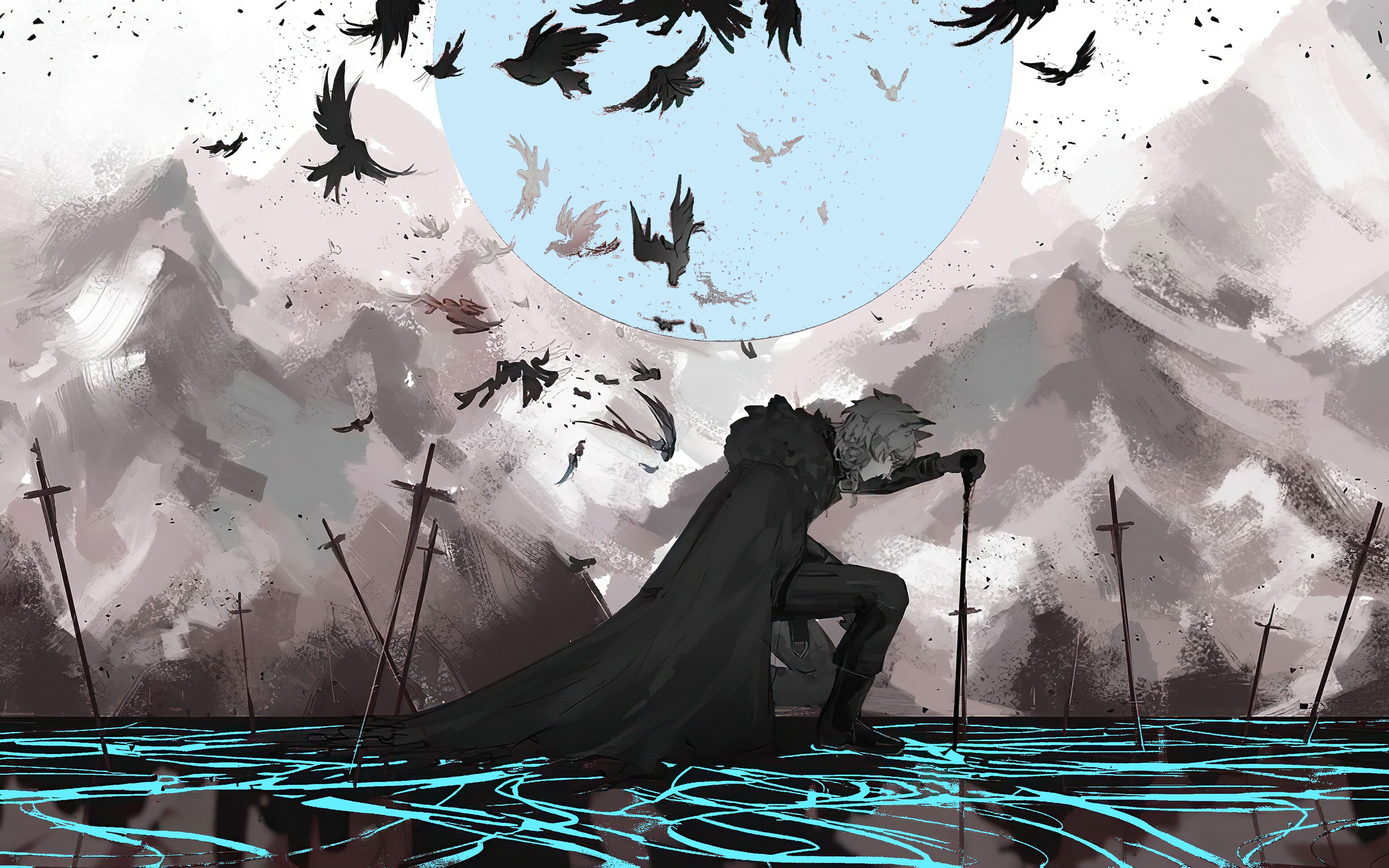
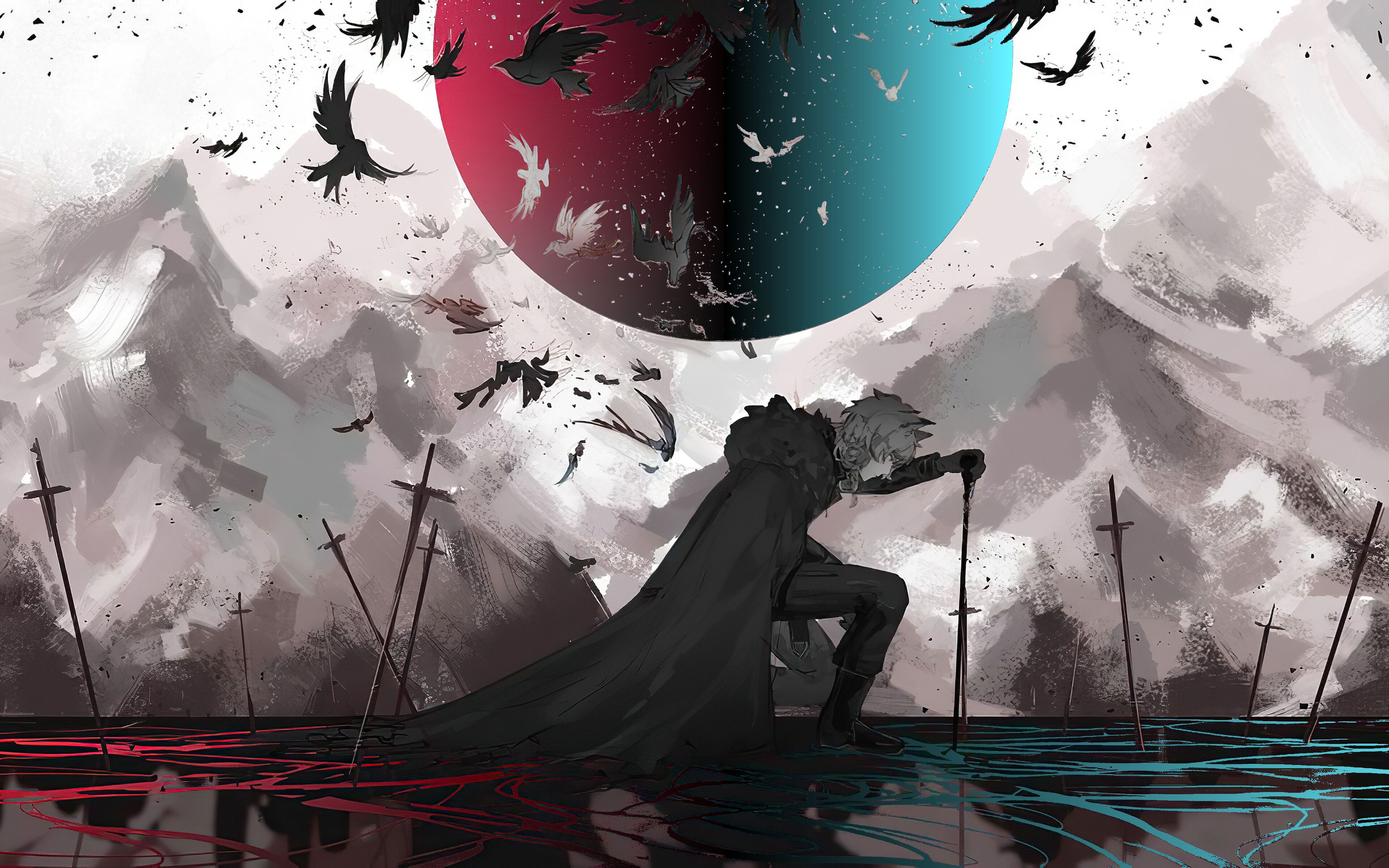
done with filter1

Changed region(s): [[0.3125, 0.0, 0.75, 0.4062], [0.0, 0.8125, 1.0, 1.0], [0.0, 0.9688, 0.0312, 1.0]]

diff --git a/filter1.cc b/filter1.cc
@@ -8,16 +8,6 @@ using namespace std;
 
 const int RED = 0, GREEN = 1, BLUE = 2;
 
-void make_rect(vector<vector<vector<int>>> &vec, int x_min, int x_max, int y_min, int y_max) {
-	for (int i = y_min; i <= y_max; i++) {
-		for (int j = x_min; j <= x_max; j++) {
-			vec[i][j][RED] = 0;
-			vec[i][j][GREEN] = 0;
-			vec[i][j][BLUE] = 0;
-		}
-	}
-}
-
 //YOU: Write your own filter here - delete the demo code or modify it to suit your purposes
 void filter1(vector<vector<vector<int>>> &vec) {
 	//Get the number of rows, columns, and colors in this 3D vector
@@ -28,14 +18,17 @@ void filter1(vector<vector<vector<int>>> &vec) {
 	size_t colors = vec.at(0).at(0).size();
 	if (!colors) exit(1);
 
-	//TODO: Use for watermark.
-//	make_rect(vec, 50, 200, 50, 60); 
-//	make_rect(vec, 50, 200, 100, 110); 
-
-	//Initialize redVal, greenVal, and blueVal to hold RGB values respectively.
+	//Initialize redVal, greenVal, and blueVal to hold RGB values respectively. The gradient percents affects what color the sun and lines on the bottom are.
 	int redVal = 0;
 	int greenVal = 0;
 	int blueVal = 0;
+	double sunRedGradientPercent = 1, sunCyanGradientPercent = 0;
+	double redGradientPercent = 1, cyanGradientPercent = 0;
+
+	//NOTE COLORS USED:
+	//		Soft blue: 200, 235, 250
+	//		Cyan used: 100, 238, 255
+	//		Red: Default red. Amplified at times to make it more showy.
 
 	//Cycle through the image one row and all columns at a time.
 	for (int i = 0; i < rows; i++) {
@@ -45,7 +38,95 @@ void filter1(vector<vector<vector<int>>> &vec) {
 			greenVal = vec.at(i).at(j).at(GREEN);
 			blueVal = vec.at(i).at(j).at(BLUE);
 
-			//Turns the sun icy blue.
+			//Makes sun split down the middle into red and cyan, gradiented. Uses 4 boxes to accomplish this.
+			//Top box.
+			if (j < 790) {
+				//Left side.
+				if (i > 1198 and i <= 2000) {
+					//If the color is close to red, gradient it.
+					if (redVal > 120 and greenVal < 115 and blueVal < 115) {
+						//Amplify red color first...
+						vec.at(i).at(j).at(RED) *= 1.45;
+						vec.at(i).at(j).at(GREEN) *= 1.45;
+						vec.at(i).at(j).at(BLUE) *= 1.45;
+						//...and then gradient it.
+						vec.at(i).at(j).at(RED) *= sunRedGradientPercent;
+						vec.at(i).at(j).at(GREEN) *= sunRedGradientPercent;
+						vec.at(i).at(j).at(BLUE) *= sunRedGradientPercent;
+					}
+					//Else if the difference between the RGB values is greater or equal to 10, also gradient it. In English, this means if the color is more red than not.
+					else if ((redVal - blueVal >= 10) and (redVal - greenVal >= 10) and (blueVal - greenVal >= 10)) {
+						//Amplify red color first...
+						vec.at(i).at(j).at(RED) *= 1.45;
+						vec.at(i).at(j).at(GREEN) *= 1.45;
+						vec.at(i).at(j).at(BLUE) *= 1.45;
+						//...and then gradient it.
+						vec.at(i).at(j).at(RED) *= sunRedGradientPercent;
+						vec.at(i).at(j).at(GREEN) *= sunRedGradientPercent;
+						vec.at(i).at(j).at(BLUE) *= sunRedGradientPercent;
+					}
+				}
+				//Right side.
+				else if (i > 2000 and i < 2800) {
+					//If the color is close to red, make the pixel icy blue and gradient it.
+					if (redVal > 120 and greenVal < 115 and blueVal < 115) {
+						vec.at(i).at(j).at(RED) = 100 * sunCyanGradientPercent;
+						vec.at(i).at(j).at(GREEN) = 238 * sunCyanGradientPercent;
+						vec.at(i).at(j).at(BLUE) = 255 * sunCyanGradientPercent;
+					}
+					//Else if the difference between the RGB values is greater or equal to 10, also make the pixel icy blue and gradient it. In English, this means if the color is more red than not.
+					else if ((redVal - blueVal >= 10) and (redVal - greenVal >= 10) and (blueVal - greenVal >= 10)) {
+						vec.at(i).at(j).at(RED) = 100 * sunCyanGradientPercent;
+						vec.at(i).at(j).at(GREEN) = 238 * sunCyanGradientPercent;
+						vec.at(i).at(j).at(BLUE) = 255 * sunCyanGradientPercent;
+					}	
+				}
+			}
+			//Bounds check #2. From row 790 to the bottom of sun.
+			//Bottom box.
+			else if (j < 945) {
+				//Left side.
+				if (i > 1515 and i <= 2000) {
+					//If the color is close to red, gradient it.
+					if (redVal > 120 and greenVal < 115 and blueVal < 115) {
+						//Amplify red color first...
+						vec.at(i).at(j).at(RED) *= 1.45;
+						vec.at(i).at(j).at(GREEN) *= 1.45;
+						vec.at(i).at(j).at(BLUE) *= 1.45;
+						//...and then gradient it.
+						vec.at(i).at(j).at(RED) *= sunRedGradientPercent;
+						vec.at(i).at(j).at(GREEN) *= sunRedGradientPercent;
+						vec.at(i).at(j).at(BLUE) *= sunRedGradientPercent;
+					}
+					//Else if the difference between the RGB values is greater or equal to 10, also gradient it. In English, this means if the color is more red than not.
+					else if ((redVal - blueVal >= 10) and (redVal - greenVal >= 10) and (blueVal - greenVal >= 10)) {
+						//Amplify red color first...
+						vec.at(i).at(j).at(RED) *= 1.45;
+						vec.at(i).at(j).at(GREEN) *= 1.45;
+						vec.at(i).at(j).at(BLUE) *= 1.45;
+						//...and thne gradient it.
+						vec.at(i).at(j).at(RED) *= sunRedGradientPercent;
+						vec.at(i).at(j).at(GREEN) *= sunRedGradientPercent;
+						vec.at(i).at(j).at(BLUE) *= sunRedGradientPercent;
+					}
+				}
+				//Right side.
+				else if (i > 2000 and i < 2800) {
+					//If the color is close to red, make the pixel icy blue and gradient it.
+					if (redVal > 120 and greenVal < 115 and blueVal < 115) {
+						vec.at(i).at(j).at(RED) = 100 * sunCyanGradientPercent;
+						vec.at(i).at(j).at(GREEN) = 238 * sunCyanGradientPercent;
+						vec.at(i).at(j).at(BLUE) = 255 * sunCyanGradientPercent;
+					}
+					//Else if the difference between the RGB values is greater or equal to 10, also make the pixel icy blue and gradient it. In English, this means if the color is more red than not.
+					else if ((redVal - blueVal >= 10) and (redVal - greenVal >= 10) and (blueVal - greenVal >= 10)) {
+						vec.at(i).at(j).at(RED) = 100 * sunCyanGradientPercent;
+						vec.at(i).at(j).at(GREEN) = 238 * sunCyanGradientPercent;
+						vec.at(i).at(j).at(BLUE) = 255 * sunCyanGradientPercent;
+					}
+				}
+			}
+/*			//Turns the sun icy blue.
 			//NOTE: Two bounds checks are requied as one of the birds that would otherwise be in-bounds of a fully encompassing square, is just barely within the color range to be turned partially icy blue.
 			//Bounds check #1. From the top of sun to row 790.
 			if ((i > 1193 and i < 2800) and (j < 790)) {
@@ -55,7 +136,7 @@ void filter1(vector<vector<vector<int>>> &vec) {
 					vec.at(i).at(j).at(GREEN) = 233;
 					vec.at(i).at(j).at(BLUE) = 250;
 				}
-				//Else if the difference between the RGB values is greater or equal to 10, make the pixel icy blue. In English, this means if the color is more red than not.
+				//Else if the difference between the RGB values is greater or equal to 10, also make the pixel icy blue. In English, this means if the color is more red than not.
 				else if ((redVal - blueVal >= 10) and (redVal - greenVal >= 10) and (blueVal - greenVal >= 10)) {
 					vec.at(i).at(j).at(RED) = 200;
 					vec.at(i).at(j).at(GREEN) = 233;
@@ -70,64 +151,54 @@ void filter1(vector<vector<vector<int>>> &vec) {
 					vec.at(i).at(j).at(GREEN) = 233;
 					vec.at(i).at(j).at(BLUE) = 250;
 				}
-				//Else if the difference between the RGB values is greater or equal to 10, make the pixel icy blue. In English, this means if the color is more red than not.
+				//Else if the difference between the RGB values is greater or equal to 10, also make the pixel icy blue. In English, this means if the color is more red than not.
 				else if ((redVal - blueVal >= 10) and (redVal - greenVal >= 10) and (blueVal - greenVal >= 10)) {
 					vec.at(i).at(j).at(RED) = 200;
 					vec.at(i).at(j).at(GREEN) = 233;
 					vec.at(i).at(j).at(BLUE) = 250;
 				}
-			}
+			} */
 			//Bounds check for bottom part of screen where the red lines on the ground are.
-			else if (j > 1980) {
-				//If redVal minus greenVal and blueVal combined is higher than FIXME, then it's considered red and is changed to icy blue.
-				if ((redVal - blueVal >= 30) and (redVal - greenVal >= 30)) {
-					vec.at(i).at(j).at(RED) = 100;
-					vec.at(i).at(j).at(GREEN) = 238;
-					vec.at(i).at(j).at(BLUE) = 255;
+			else { 
+				//Gradients red from left to right, starting at beginning of screen and stopping at middle of screen.
+				if ((i <= 2000) and (redVal - blueVal >= 30) and (redVal - greenVal >= 30)) {
+					//Increases the red color so looks similar to the hue of cyan's.
+					vec.at(i).at(j).at(RED) *= 1.48;
+					vec.at(i).at(j).at(GREEN) *= 1.48;
+					vec.at(i).at(j).at(BLUE) *= 1.48;
+
+					//Reduce red color by the gradient percentage.
+					vec.at(i).at(j).at(RED) *= redGradientPercent;
+					vec.at(i).at(j).at(GREEN) *= redGradientPercent;
+					vec.at(i).at(j).at(BLUE) *= redGradientPercent;
+				}
+				//Gradients cyan from left to right, starting at middle of screen to end of screen.
+				//The last two conditional statements (making of box using i and j) prevents the swords from being colored in.
+				else if ((i > 2000) and (redVal - blueVal >= 30) and (redVal - greenVal >= 30)) {
+					//These if statements prevent three of the swords from being colored a bit blue.
+					//Right side sword.
+					if ((j >= 2000 and j <= 2044) and (i >= 3595 and i <= 3641)) continue;
+					if ((j >= 1942 and j <= 2011) and (i >= 3615 and i <= 3645)) continue;
+					if ((j >= 2043 and j <= 2053) and (i >= 3614 and i <= 3624)) continue;
+					//Left side sword.
+					if ((j >= 1952 and j <= 1998) and (i >= 3134 and i <= 3151)) continue;
+					if ((j >= 1999 and j <= 2021) and (i >= 3136 and i <= 3154)) continue;
+					if ((j >= 2022 and j <= 2075) and (i >= 3139 and i <= 3162)) continue;
+					if ((j >= 2068 and j <= 2075) and (i >= 3163 and i <= 3165)) continue;
+					//Lefter side sword.
+					if ((j >= 1855 and j <= 2002) and (i >= 2653 and i <= 2678)) continue;
+
+					//Reduce the cyan color by the gradient percentage.
+					vec.at(i).at(j).at(RED) = 100 * cyanGradientPercent;
+					vec.at(i).at(j).at(GREEN) = 238 * cyanGradientPercent;
+					vec.at(i).at(j).at(BLUE) = 255 * cyanGradientPercent;
 				}
 			}
 		}
+		//I don't even know how the living hell i affects the columns, but puts a gradient for the red side and cyan side ending in black in the middle. (Both sun and floor.)
+		if (i >= 1198 and i < 2000) sunRedGradientPercent -= 0.0012;
+		if (i > 2000 and i <= 2800) sunCyanGradientPercent += 0.0013;
+		if (i < 2000) redGradientPercent -= 0.00048;
+		if (i > 2000) cyanGradientPercent += 0.00048;
 	}
-	
-	/*
-	//Do the image filtering on every row and column in this image...
-	for (int i = 0; i < rows; i++) {
-		for (int j = 0; j < cols; j++) {
-			vec.at(i).at(j).at(RED) *= 2;
-			vec.at(i).at(j).at(GREEN) *= 2;
-			vec.at(i).at(j).at(BLUE) *= 2;
-
-			//r is the red value at the current spot, g is the green, b is the blue
-			int r = vec.at(i).at(j).at(RED); //Bounds check with .at the first time
-			int g = vec[i][j][GREEN]; //Skip bounds check for speed
-			int b = vec[i][j][BLUE];
-
-			//DEMO CODE BEGIN
-			
-			//The demo code here will either sepia tone or yellowize the image, depending on which one you comment out
-			//Simple Example - Make the image more yellowish
-			vec.at(i).at(j).at(RED) *= 1.3; //Increase red value at every point by 50%
-            vec.at(i).at(j).at(GREEN) *= 1.2; //Increase green at every point by 20%
-            vec.at(i).at(j).at(BLUE) *= 0.8; //Reduce blue by 20%
-			
-
-			//Add a rainbow pattern 
-			if (r > 150 and g < 150) {
-				int avg = (r+g+b)/3;
-				vec[i][j][RED] = avg + 128*cos(i/20.0);
-				vec[i][j][GREEN] = avg + 128*sin(i/50.0);;
-				vec[i][j][BLUE] = avg + 128*cos(i/40.0 + 3);
-			}
-
-		
-			//Complex Example - Do sepia toning
-			//Get the red, green and blue values at row i, col j:
-			//These magic numbers do sepia toning
-			vec[i][j][RED]   = r*0.393 + g*0.769 + b*0.189;
-			vec[i][j][GREEN] = r*0.349 + g*0.686 + b*0.168;
-			vec[i][j][BLUE]  = r*0.272 + g*0.534 + b*0.131;
-			
-			//DEMO CODE END
-		}
-	}*/
 }

diff --git a/main.cc b/main.cc
@@ -1,11 +1,11 @@
 //==================================================================================
 //Write your names here, and explain what each student's code does
 //Student 1 Name: Declan Doss
-//Student 1's Filter Description: 
+//Student 1's Filter Description: Splits sun and red floor lines down middle, half red half cyan, gradiented.
 //Student 2 Name: Khushkaranpreet Grewal
-//Student 2's Filter Description:
+//Student 2's Filter Description: 
 //Student 3 Name: Luis Sanchez
-//Student 3's Filter Description:
+//Student 3's Filter Description: 
 //==================================================================================
 //You don't need to modify this file below this line, unless you, like, want to
 
@@ -104,7 +104,7 @@ int main(int argc, char **argv) {
 		cerr << "Time to write filter1.jpg: " << double (end_time - start_time) / CLOCKS_PER_SEC << " secs\n";
 
 		//PHASE 3 - Run Student 2's Code
-/*		start_time = clock();
+		start_time = clock();
 		filter2(vec); 
 		end_time = clock();
 		cerr << "Filter 2 time: " << double (end_time - start_time) / CLOCKS_PER_SEC << " secs\n";
@@ -125,7 +125,7 @@ int main(int argc, char **argv) {
 		//image.save_png("filter3.png"); //Uncomment this for higher quality output
 		image.save_jpeg("filter3.jpg", 80); //Output result after filter 3
 		end_time = clock();
-		cerr << "Time to write filter3.jpg: " << double (end_time - start_time) / CLOCKS_PER_SEC << " secs\n"; */
+		cerr << "Time to write filter3.jpg: " << double (end_time - start_time) / CLOCKS_PER_SEC << " secs\n";
 	} catch (...) {
 		cout << "Error opening file\n";
 		exit(EXIT_FAILURE);
